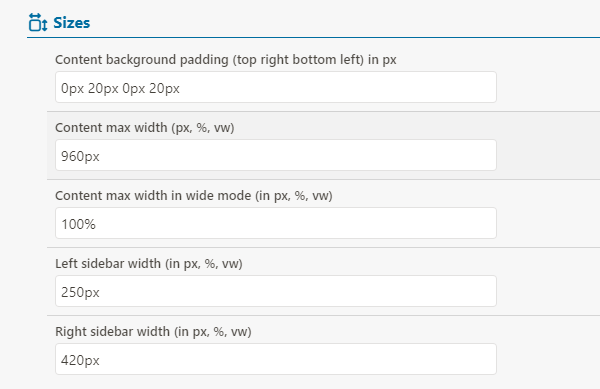
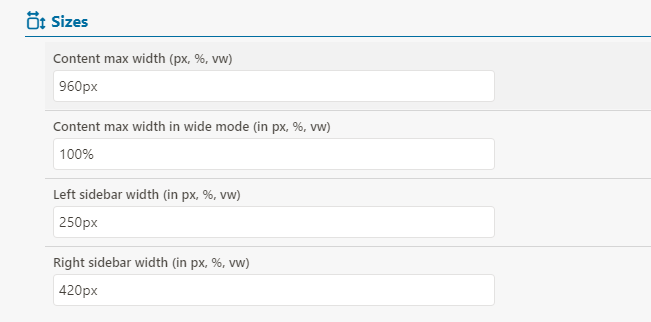
fix(settings): deleted sizes padding

diff --git a/src/settings/settingsConfig.ts b/src/settings/settingsConfig.ts
@@ -90,7 +90,6 @@ export const presetsConfig: PresetConfig = {
         colorDarkInlineCodeBg: '#073945',
         backgroundURLLight: 'lsp://logseq.io/logseq-awesome-styler/dist/img/bg.webp',
         backgroundURLDark: 'lsp://logseq.io/logseq-awesome-styler/dist/img/bg.webp',
-        backgroundPadding: '10px 20px 0px 20px',
         bannersAsBackground: true,
         bannersIconGlow: true,
         contentMaxWidth: '960px',
@@ -159,7 +158,6 @@ export const presetsConfig: PresetConfig = {
         colorDarkInlineCodeBg: '#01222A',
         backgroundURLLight: '',
         backgroundURLDark: '',
-        backgroundPadding: '0px 20px 0px 20px',
         bannersAsBackground: false,
         bannersIconGlow: false,
         contentMaxWidth: '960px',
@@ -228,7 +226,6 @@ export const presetsConfig: PresetConfig = {
         colorDarkInlineCodeBg: '#34282B',
         backgroundURLLight: 'lsp://logseq.io/logseq-awesome-styler/dist/img/chocolate-bg-light.webp',
         backgroundURLDark: 'lsp://logseq.io/logseq-awesome-styler/dist/img/chocolate-bg-dark.webp',
-        backgroundPadding: '10px 20px 0px 20px',
         bannersAsBackground: false,
         bannersIconGlow: false,
         contentMaxWidth: '960px',
@@ -297,7 +294,6 @@ export const presetsConfig: PresetConfig = {
         colorDarkInlineCodeBg: '#27272A',
         backgroundURLLight: '',
         backgroundURLDark: '',
-        backgroundPadding: '0px 20px 0px 20px',
         bannersAsBackground: false,
         bannersIconGlow: false,
         contentMaxWidth: '960px',
@@ -366,8 +362,7 @@ export const presetsConfig: PresetConfig = {
         colorDarkInlineCodeBg: '#1E232F',
         backgroundURLLight: '',
         backgroundURLDark: '',
-        backgroundPadding: '0px 20px 0px 20px',
-        bannersAsBackground: false,
+          bannersAsBackground: false,
         bannersIconGlow: false,
         contentMaxWidth: '960px',
         contentWideMaxWidth: '100%'
@@ -435,7 +430,6 @@ export const presetsConfig: PresetConfig = {
         colorDarkInlineCodeText: '#D8DEE9',
         backgroundURLLight: '',
         backgroundURLDark: '',
-        backgroundPadding: '0px 20px 0px 20px',
         bannersAsBackground: false,
         bannersIconGlow: false,
         contentMaxWidth: '960px',
@@ -974,13 +968,6 @@ export const settingsConfig: SettingSchemaDesc[] = [
         description: '',
         type: 'heading',
         default: null,
-    },
-    {
-        key: 'backgroundPadding',
-        title: 'Content background padding (top right bottom left) in px',
-        description: '',
-        type: 'string',
-        default: presetsConfig.Solarized_default.backgroundPadding,
     },
     {
         key: 'contentMaxWidth',

diff --git a/src/modules/ui/ui.css b/src/modules/ui/ui.css
@@ -28,22 +28,6 @@ body[data-page="graph"] .graph {
     height: calc(100vh - var(--awSt-head-height)) !important;
 }
 
-/* outer spacing */
-#main-content-container {
-    padding: var(--awSt-content-padding) !important;
-}
-body:not(.is-awUi-enabled) #main-content-container {
-    padding-top: calc(var(--awSt-content-padding-top) + var(--awSt-tabs-height)) !important;
-}
-body[data-page="whiteboard"] #main-content-container,
-body[data-page="graph"] #main-content-container {
-    padding: 0 !important;
-}
-body[data-page="whiteboards"] #main-content-container,
-body[data-page="all-pages"] #main-content-container {
-    padding-top: var(--awSt-content-padding-top) !important;
-}
-
 /* inner spacing */
 .cp__sidebar-main-content > div {
     padding: 20px 30px;
@@ -55,16 +39,6 @@ body[data-page="graph"] .cp__sidebar-main-content > div {
 
 .doc-mode {
     margin-left: -10px;
-}
-.whiteboard-page {
-    padding: 0 !important;
-}
-
-#journals .journal-item {
-    margin: 0;
-}
-#journals .journal-item + .journal-item {
-    margin-top: 24px;
 }
 /*
   <<<< END: Layout
@@ -297,37 +271,6 @@ body[data-page="graph"] .cp__sidebar-main-content > div {
 }
 /*
   <<<< END: Scroll bars
-*/
-
-
-/*
-  >>> BEGIN: Breadcrumbs
-*/
-.page > div > div > div > .breadcrumb span.opacity-50 {
-    color: transparent;
-}
-.page > div > div > div > .breadcrumb span.opacity-50::before {
-    display: inline;
-    content: "\ea65";
-    font-family: "tabler-icons";
-    color: var(--ls-link-text-color);
-    margin: 0 -18px 0 -2px;
-    position: relative;
-    top: 2px;
-}
-.page > div > div > div > .block-parents a {
-    padding: 0 3px;
-    border-bottom: 1px dashed var(--ls-link-text-color);
-}
-.page > div > div > div > .block-parents a:hover {
-    background-color: var(--awSt-link-hover-bg-color, var(--ls-link-text-hover-color));
-}
-.page > div > div > div > .breadcrumb.block-parents {
-    margin: 0;
-    padding: 0.5rem;
-}
-/*
-  <<<< END: Breadcrumbs
 */
 
 

diff --git a/src/settings/cssVars.ts b/src/settings/cssVars.ts
@@ -141,8 +141,6 @@ export const getThemeCSSVars = (): string => {
             ${bannersAsBackground}
             ${bannersIconGlow}
             /* sizes */
-            --awSt-content-padding: ${globals.pluginConfig.backgroundPadding};
-            --awSt-content-padding-top: ${globals.pluginConfig.backgroundPadding.split(' ')[0]};
             --awSt-content-max-width: ${globals.pluginConfig.contentMaxWidth};
             --ls-main-content-max-width-wide: ${globals.pluginConfig.contentWideMaxWidth};
             --ls-left-sidebar-width: ${globals.pluginConfig.leftSidebarWidth};
